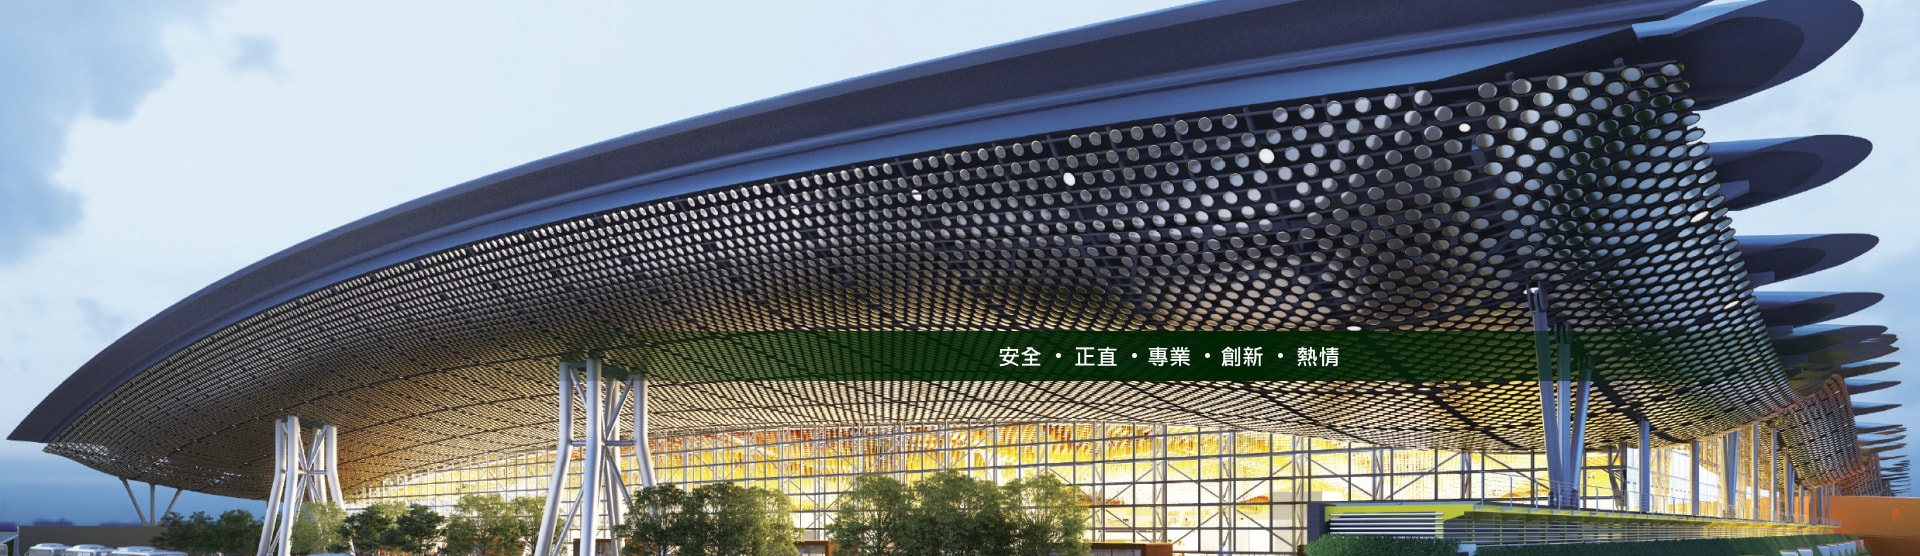
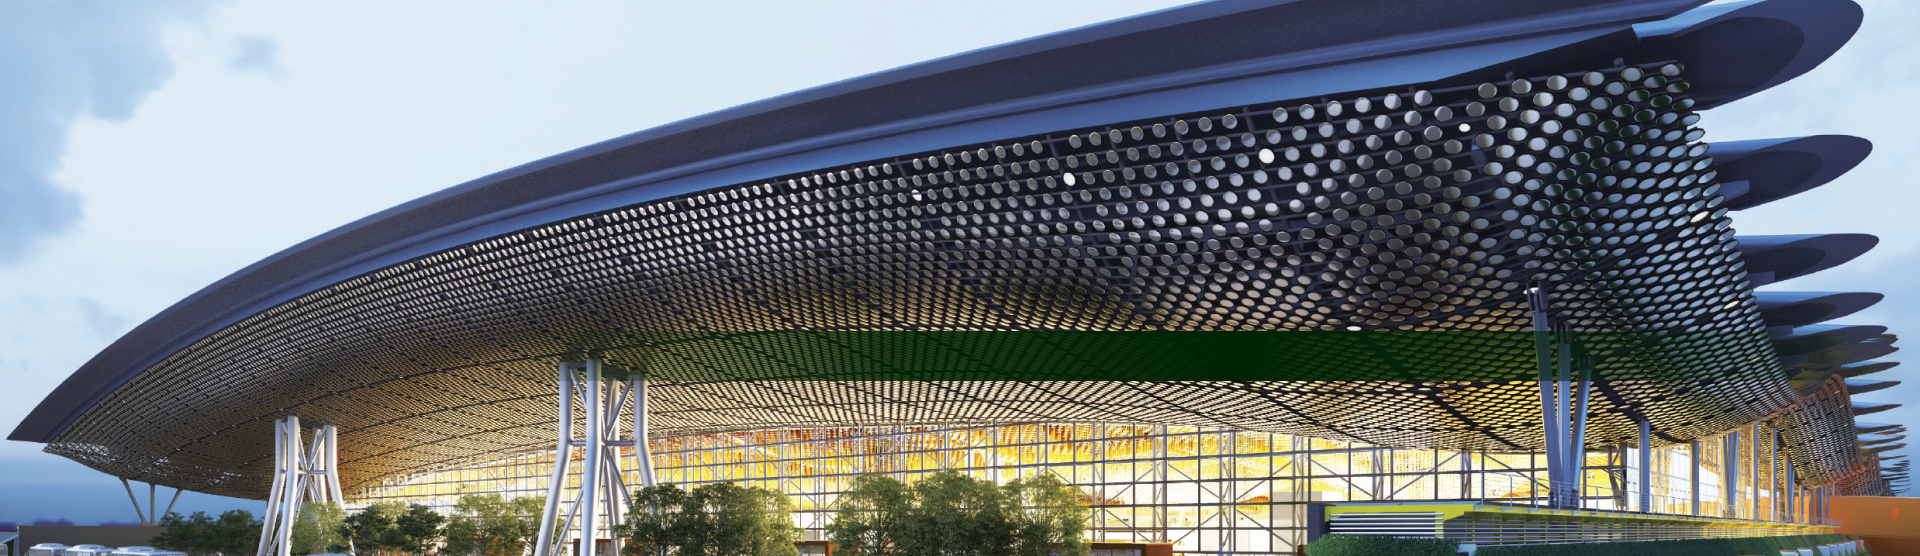
更新tooltip項目

diff --git a/css/style.css b/css/style.css
@@ -192,19 +192,62 @@ nav {
 
 .banner {
     width: 100%;
-    height: auto;
+    height: 556px;
     position: relative;
     overflow: hidden;
-    display: -webkit-box;
-    display: -webkit-flex;
-    display: -ms-flexbox;
-    display: flex;
+    background: url(../img/banner.jpg) center center no-repeat;
+    background-size: cover;
 }
 
-.banner img {
+/*.banner img {
     margin: 0 auto;
     max-width: 100%;
     height: auto;
+    position: absolute;
+}*/
+
+.slogan {
+    max-width: 1260px;
+    margin: 0 auto;
+    padding-right: 10%;
+    top: 338px;
+    color: #fff;
+    text-align: right;
+    font-size: 22px;
+    font-weight: bold;
+    position: relative;
+    z-index: 3;
+}
+
+.slogan > div {
+    letter-spacing: 2px;
+}
+
+.tooltip {
+  position: relative;
+  display: inline-block;
+}
+
+.tooltip .tooltiptext {
+  visibility: hidden;
+  width: 160px;
+  background-color: #042506;
+  color: #fff;
+  font-size: 18px;
+  text-align: center;
+  border-radius: 6px;
+  padding: 5px 0;
+  
+  /* Position the tooltip */
+  position: absolute;
+  z-index: 1;
+  bottom: 100%;
+  left: 50%;
+  margin-left: -60px;
+}
+
+.tooltip:hover .tooltiptext {
+  visibility: visible;
 }
 
 aside {

diff --git a/index.html b/index.html
@@ -41,7 +41,33 @@
     </header><!-- /header -->
 
     <div class="banner">
-        <img src="img/banner.jpg" alt="安全、正直、專業、創新、熱情">
+        <div class="slogan">
+            <div class="tooltip">
+                安全
+                <span class="tooltiptext">Tooltip text</span>
+            </div>
+             · 
+            <div class="tooltip">
+                正直
+                <span class="tooltiptext">Tooltip text</span>
+            </div>
+             · 
+            <div class="tooltip">
+                專業
+                <span class="tooltiptext">Tooltip text</span>
+            </div>
+             · 
+            <div class="tooltip">
+                創新
+                <span class="tooltiptext">Tooltip text</span>
+            </div>
+             · 
+            <div class="tooltip">
+                熱情
+                <span class="tooltiptext">Tooltip text</span>
+            </div>
+        </div>
+        <!--<img src="img/banner.jpg" alt="安全、正直、專業、創新、熱情">-->
 	</div><!-- /banner -->
 
         <div class="wrapper table pd30">
